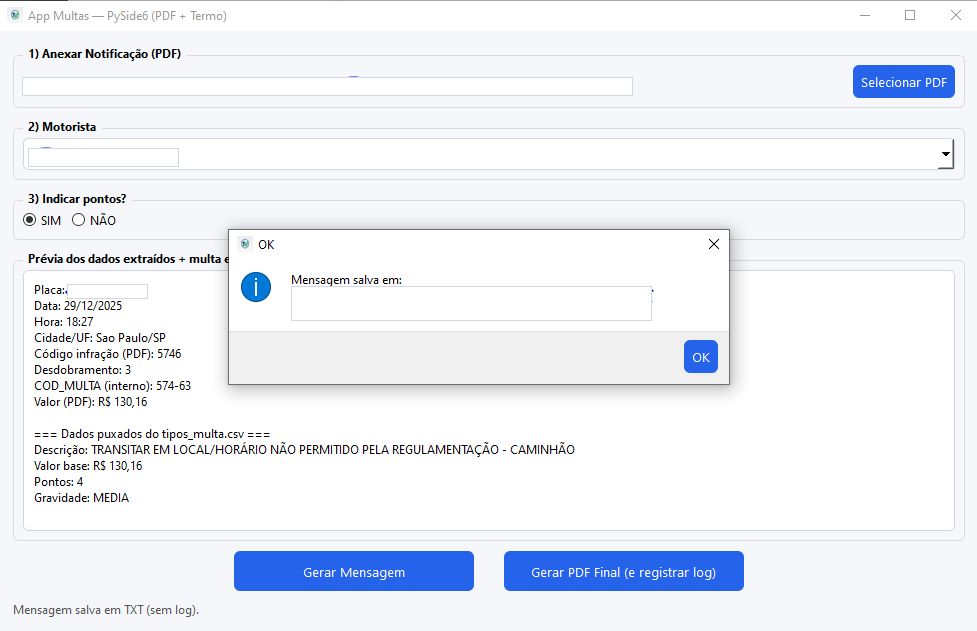
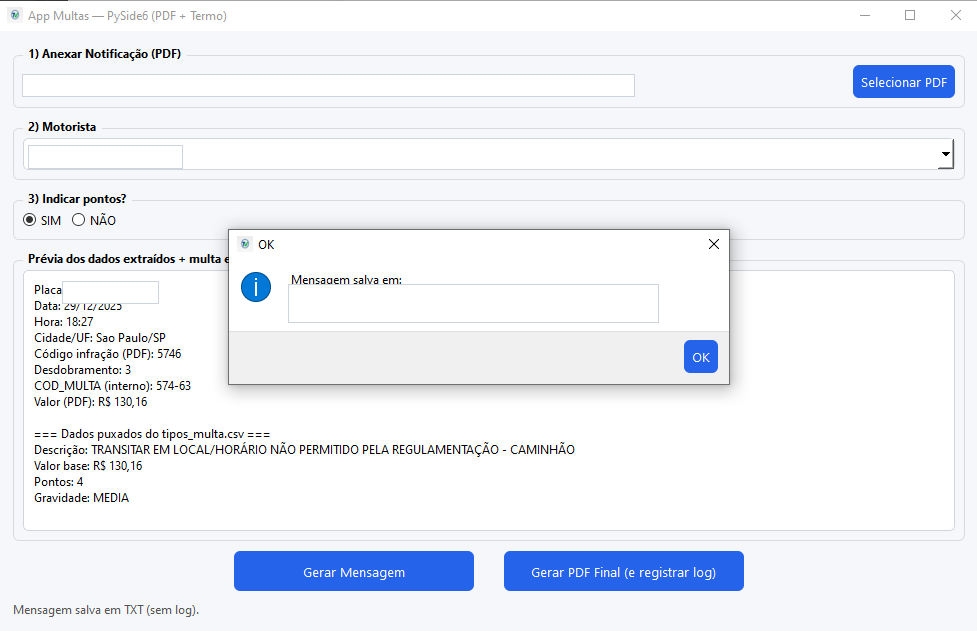
Ajusta censura dos prints do App Multas

diff --git a/index.html b/index.html
@@ -1294,20 +1294,20 @@
                 <div class="carousel-viewport">
                   <div class="carousel-track">
                     <figure class="carousel-slide" data-slide>
-                      <a href="assets/multas/leitura-pdf.png" aria-label="Ampliar leitura do pdf">
-                        <img src="assets/multas/leitura-pdf.png" alt="Tela do App Multas com PDF anexado, seleção de motorista, indicação de pontos e prévia dos dados extraídos" loading="eager" />
+                      <a href="assets/multas/leitura-pdf.png?v=multas2" aria-label="Ampliar leitura do pdf">
+                        <img src="assets/multas/leitura-pdf.png?v=multas2" alt="Tela do App Multas com PDF anexado, seleção de motorista, indicação de pontos e prévia dos dados extraídos" loading="eager" />
                       </a>
                       <figcaption>Leitura do PDF</figcaption>
                     </figure>
                     <figure class="carousel-slide" data-slide>
-                      <a href="assets/multas/mensagem-salva.png" aria-label="Ampliar mensagem salva">
-                        <img src="assets/multas/mensagem-salva.png" alt="Tela do App Multas exibindo confirmação de mensagem salva em TXT" loading="eager" />
+                      <a href="assets/multas/mensagem-salva.png?v=multas2" aria-label="Ampliar mensagem salva">
+                        <img src="assets/multas/mensagem-salva.png?v=multas2" alt="Tela do App Multas exibindo confirmação de mensagem salva em TXT" loading="eager" />
                       </a>
                       <figcaption>Mensagem salva</figcaption>
                     </figure>
                     <figure class="carousel-slide" data-slide>
-                      <a href="assets/multas/texto-gerado.png" aria-label="Ampliar texto gerado">
-                        <img src="assets/multas/texto-gerado.png" alt="Arquivo de texto gerado pelo App Multas com mensagem padronizada sobre a infração" loading="eager" />
+                      <a href="assets/multas/texto-gerado.png?v=multas2" aria-label="Ampliar texto gerado">
+                        <img src="assets/multas/texto-gerado.png?v=multas2" alt="Arquivo de texto gerado pelo App Multas com mensagem padronizada sobre a infração" loading="eager" />
                       </a>
                       <figcaption>Texto gerado</figcaption>
                     </figure>